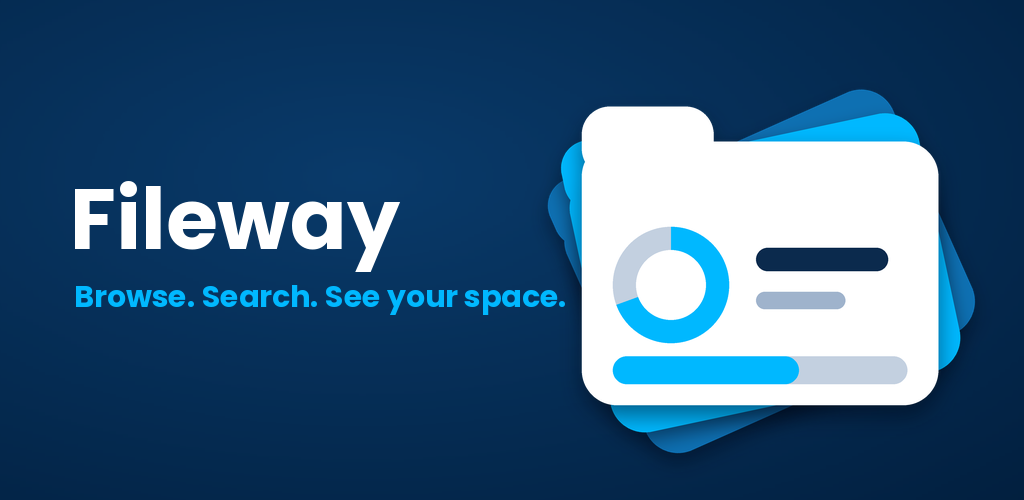
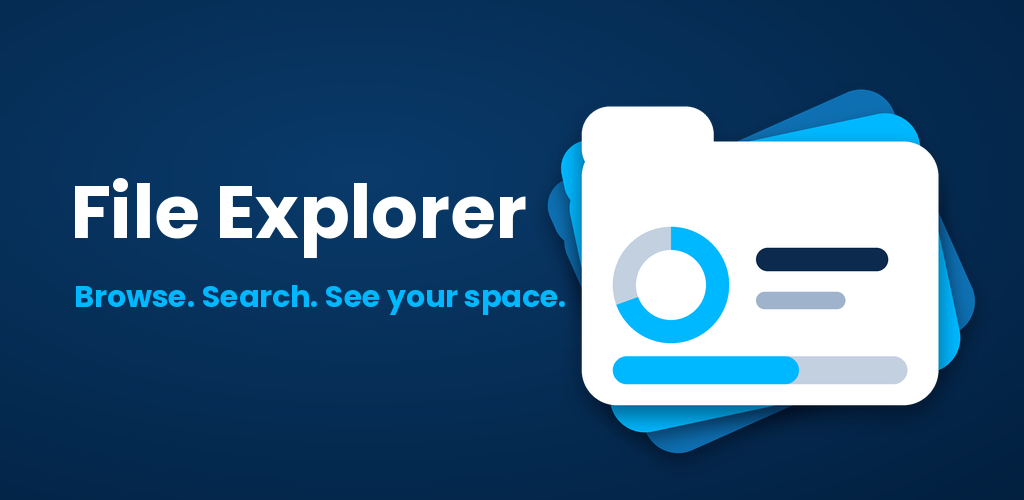
Fixing branding

Changed region(s): [[0.0625, 0.36, 0.5312, 0.54]]

diff --git a/src/constants.ts b/src/constants.ts
@@ -2,9 +2,9 @@ import type { MessageKey } from "./i18n/locales/en";
 import { Settings, Theme } from "./types";
 
 /** The name shown in the app (the launcher name itself is in app.json). */
-export const APP_NAME = "Fileway";
+export const APP_NAME = "File Explorer";
 /** Same as android.package in app.json: needed to open this app's own settings page. */
-export const APP_ID = "com.knownyurimaxxer.fileway";
+export const APP_ID = "com.knownyurimaxxer.fileexplorer";
 
 /** Shared storage as the system shows it to apps (the phone's "Internal storage"). */
 export const INTERNAL_ROOT = "file:///storage/emulated/0";
@@ -14,15 +14,18 @@ export const VOLUMES_DIR = "file:///storage";
 export const NOT_VOLUMES = ["emulated", "self"];
 
 /** Folders of the internal storage offered as quick places, if they exist. */
-export const PLACE_FOLDERS: { id: string; folder: string; label: MessageKey }[] =
-	[
-		{ id: "downloads", folder: "Download", label: "place.downloads" },
-		{ id: "camera", folder: "DCIM", label: "place.camera" },
-		{ id: "documents", folder: "Documents", label: "place.documents" },
-		{ id: "pictures", folder: "Pictures", label: "place.pictures" },
-		{ id: "music", folder: "Music", label: "place.music" },
-		{ id: "movies", folder: "Movies", label: "place.movies" },
-	];
+export const PLACE_FOLDERS: {
+	id: string;
+	folder: string;
+	label: MessageKey;
+}[] = [
+	{ id: "downloads", folder: "Download", label: "place.downloads" },
+	{ id: "camera", folder: "DCIM", label: "place.camera" },
+	{ id: "documents", folder: "Documents", label: "place.documents" },
+	{ id: "pictures", folder: "Pictures", label: "place.pictures" },
+	{ id: "music", folder: "Music", label: "place.music" },
+	{ id: "movies", folder: "Movies", label: "place.movies" },
+];
 
 /** Search: results kept, wait after typing, and how a long walk shares the thread. */
 export const SEARCH = { maxResults: 300, debounceMs: 250 } as const;

diff --git a/src/storage/db.ts b/src/storage/db.ts
@@ -9,7 +9,7 @@ let dbPromise: Promise<SQLite.SQLiteDatabase> | null = null;
 function getDb(): Promise<SQLite.SQLiteDatabase> {
 	if (!dbPromise) {
 		dbPromise = (async () => {
-			const db = await SQLite.openDatabaseAsync("fileway.db");
+			const db = await SQLite.openDatabaseAsync("fileexplorer.db");
 			await db.execAsync(`
 				CREATE TABLE IF NOT EXISTS settings (
 					key   TEXT PRIMARY KEY NOT NULL,

diff --git a/tools/generate_branding.py b/tools/generate_branding.py
@@ -1,10 +1,11 @@
-"""Draws the Fileway branding into assets/ (needs Pillow: pip install pillow).
+"""Draws the File Explorer branding into assets/ (needs Pillow: pip install pillow).
 
 Run from the project root:  python3 tools/generate_branding.py
 The mark is a fanned stack of folders with a storage ring and bar on the front
 one, in the colors of the default Navy theme.
 """
 import os
+import subprocess
 from PIL import Image, ImageChops, ImageDraw, ImageFilter, ImageFont
 
 NAVY, NAVY_LIGHT = (0, 25, 53), (10, 62, 112)
@@ -132,12 +133,30 @@ def icon_on_gradient(size, scale):
     return base
 
 
+def find_font():
+    """Poppins Bold wherever it is installed (asks fontconfig), else any bold sans."""
+    for query in ("Poppins:bold", "sans:bold"):
+        try:
+            path = subprocess.run(
+                ["fc-match", "-f", "%{file}", query],
+                capture_output=True, text=True, check=True,
+            ).stdout.strip()
+        except (OSError, subprocess.CalledProcessError):
+            continue
+        if path and os.path.exists(path):
+            return path
+    raise SystemExit("No bold font found. Install Poppins (or any bold sans font) and run again.")
+
+
+_FONT_PATH = None
+
+
 def font(size):
-    for p in ("/usr/share/fonts/truetype/google-fonts/Poppins-Bold.ttf",
-              "/usr/share/fonts/truetype/dejavu/DejaVuSans-Bold.ttf"):
-        if os.path.exists(p):
-            return ImageFont.truetype(p, size)
-    return ImageFont.load_default()
+    global _FONT_PATH
+    if _FONT_PATH is None:
+        _FONT_PATH = find_font()
+        print("using font", _FONT_PATH)
+    return ImageFont.truetype(_FONT_PATH, size)
 
 
 def main():
@@ -157,7 +176,7 @@ def main():
     mark = render_mark(500, 1.55)
     fg.alpha_composite(mark, (510, 0))
     d = ImageDraw.Draw(fg)
-    d.text((70, 160), "Fileway", font=font(84), fill=WHITE)
+    d.text((70, 160), "File Explorer", font=font(74), fill=WHITE)
     d.text((74, 275), "Browse. Search. See your space.", font=font(30), fill=ACCENT)
     save(fg, "store/feature-graphic-1024x500.png", "RGB")
 
